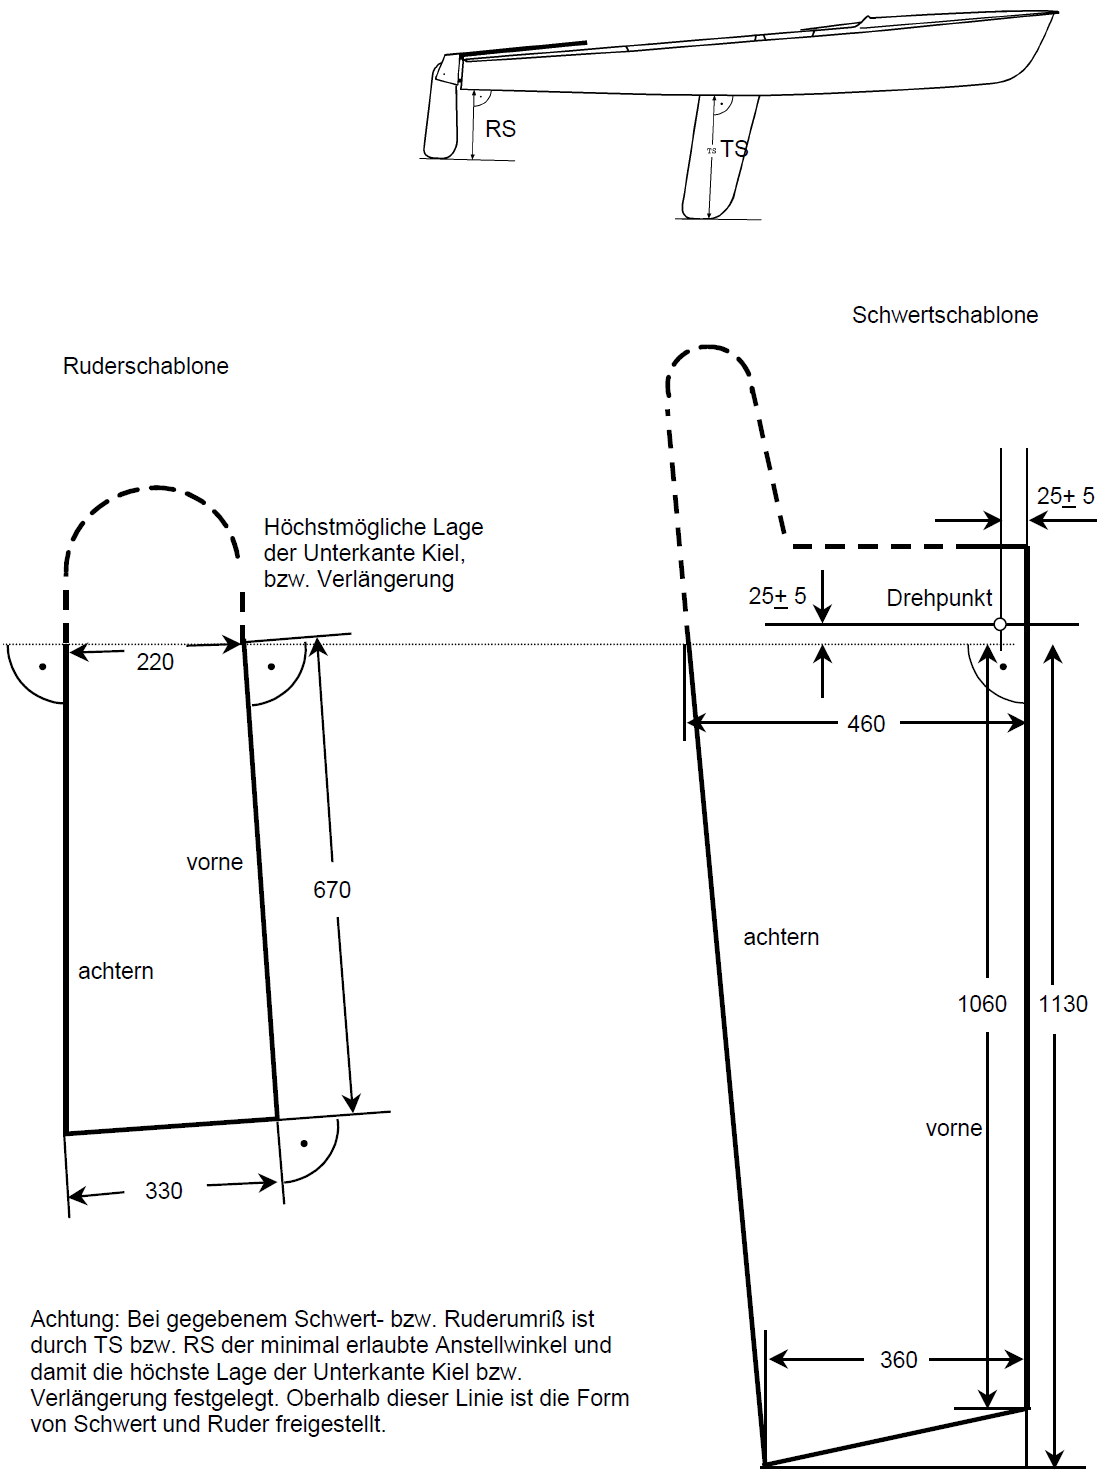
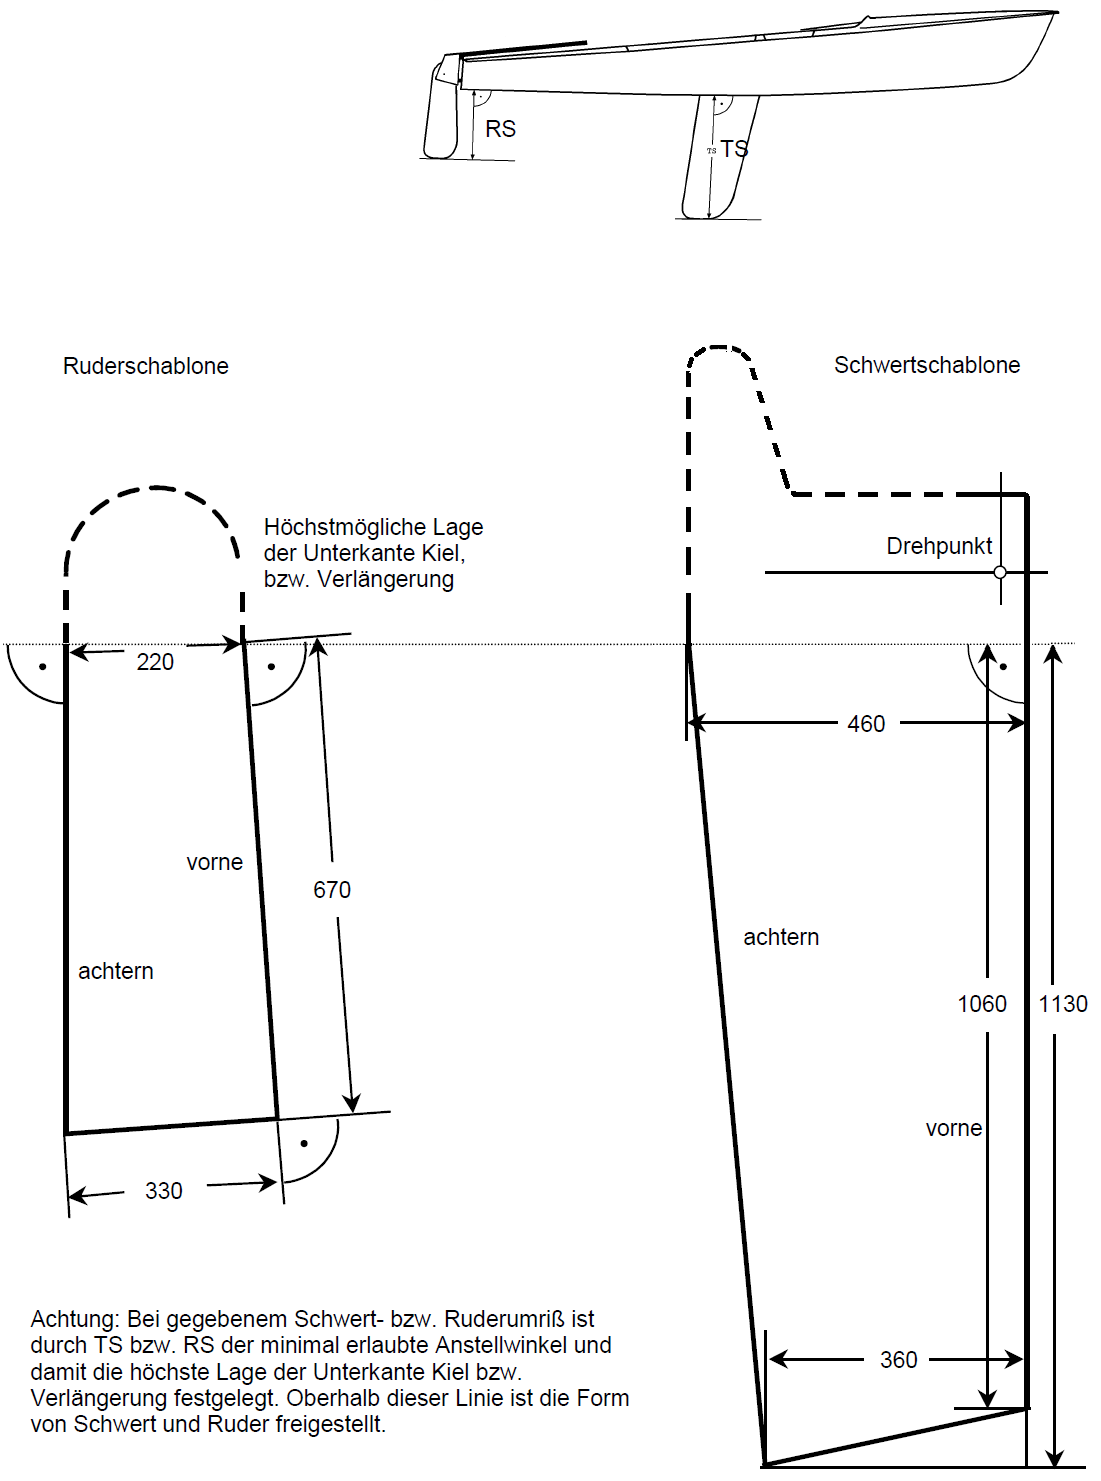
Antrag auf Änderung der Klassenvorschrift #5 (rel #2, #3, #4)

diff --git a/Jeton-Klassenvorschrift.md b/Jeton-Klassenvorschrift.md
@@ -69,7 +69,7 @@ In den Regeln 8.2.5, 8.3.6, 8.4.1, 14.3 und 17.5.3: Genehmigung DSV vom 10.04.20
 
 - **4.5** Regel 4 kann ersetzt werden durch entsprechende Vorschriften anderer nationaler Verbände.
 
-## Vermessung
+## 5 Vermessung
 
 - **5.1** Die Typenprüfung und/oder Vermessung darf nur durch einen anerkannten DSV-Vermesser vorgenommen werden.
 
@@ -97,25 +97,32 @@ In den Regeln 8.2.5, 8.3.6, 8.4.1, 14.3 und 17.5.3: Genehmigung DSV vom 10.04.20
 
 - **6.1** Die im Meßbrief angegebene Nummer des Rumpfes ist am Rumpf - Innenseite Spiegel, durch den Schaudeckel sichtbar - einzulaminieren.
 
-- **6.2** Im Großsegel muß sich oberhalb der halben Höhe die Segelnummer befinden. Das Klassenzeichen ist im Großsegel über der Segelnummer anzubringen. Im Großsegel ist zusätzlich das Nationalitätszeichen vor oder über der Segelnummer zu führen. Als Nationalitätskennzeichen müssen entweder die vor dem 31. März 1999 vorgeschriebenen oder die danach in WR 77 vorgeschriebenen Nationalitätsbuchstaben gefahren werden.
+- **6.2** Im Großsegel sind das Klassenzeichen und darunter das Nationalitätskennzeichen und die Segelnummer anzubringen. Das Nationalitätskennzeichen steht vor oder über der Segelnummer. Die Segelnummer muss sich oberhalb des ersten Drittels der Höhe des Großsegels befinden. Nationalitätskennzeichen und Segelnummern sind auf beiden Seiten des Großsegels in unterschiedlicher Höhe anzubringen, an Steuerbord höher als an Backbord.
 
-- **6.3** Die Segelnummer steht unter dem Klassenzeichen und muß *300±20 mm*  
-    hoch sein, die Schriftstärke beträgt mindestens *50 mm*  
-    Klassenzeichen und Segelnummer müssen in roter Farbe ausgeführt sein und sind auf beiden Seiten des Großsegels in unterschiedlicher Höhe anzubringen, an Steuerbord höher als an Backbord. Das Segelzeichen des Jeton besteht aus einem in der Mitte zweigeteilten Kreis; die obere Hälfte ist rot, die untere Hälfte enthält ein rotes "J". 
-    Der Durchmesser des Segelzeichens beträgt *320±20 mm*  
-    (gemäß Segelblatt).
+- **6.3** Das Klassenzeichen des Jeton besteht aus einem in der Mitte zweigeteilten Kreis; die obere Hälfte ist rot, die untere Hälfte enthält ein rotes "J".  
+Der Durchmesser des Segelzeichens beträgt *320±20 mm*  
+(gemäß Messblatt 3).  
+Höhe der Buchstaben des Nationalitätskennzeichens und Zahlen der Segelnummer *300±20 mm*  
+Schriftstärke *min. 50 mm*  
+Als Nationalitätskennzeichen müssen entweder die vor dem 31. März 1999 vorgeschriebenen oder die danach in WR 77 vorgeschriebenen Nationalitätsbuchstaben gefahren werden. Das Nationalitätskennzeichen und die Segelnummer sind in kontrastierender Farbe anzubringen.
 
 - **6.4** Auf dem Spinnaker sind Nationalitätszeichen und Unterscheidungsnummer (Größe unter 6.3) in ähnlicher Weise jedoch in annähernd halber Höhe in kontrastierender Farbe anzubringen.
 
 ## 7 Bauverfahren
 
-- **7.1** Der Jeton-Rumpf darf nur im Handauflegeverfahren in GFK hergestellt werden. Das Deck darf in Holz gefertigt werden.
+- **7.1** Der Jeton-Rumpf darf nur im Handauflegeverfahren in GFK hergestellt werden.
 
-    - **7.1.1** Sandwichbauweise ist erlaubt. Sandwichbauweise darf auch zur Verstärkung von einzelnen Flächen eingesetzt werden.
+    - **7.1.1** Das Deck darf in Holz gefertigt werden.
+    
+    - **7.1.2** Ein Schwerttisch aus GFK oder Holz ist erlaubt.
 
-    - **7.1.2** Schotten, Reitbalken sowie Versteifungen jeglicher Art sind freigestellt.
+    - **7.1.3** Sandwichbauweise ist erlaubt. Sandwichbauweise darf auch zur Verstärkung von einzelnen Flächen eingesetzt werden.
 
-    - **7.1.3** Als Materialien sind ausschließlich zugelassen: Glasfaser, Polyester, Hartschaum, Holz.
+    - **7.1.4** Schotten, Reitbalken sowie Versteifungen jeglicher Art sind freigestellt.
+
+    - **7.1.5** Als Materialien sind ausschließlich zugelassen: Glasfaser, Polyester, Hartschaum, Holz.
+    
+    - **7.1.6** Holzteile dürfen mit Epoxidharz verklebt werden. Eine Beschichtung der Holzteile mit einer Schicht Glas- oder Kohlefaser-Gewebe von max. 250 g/m2 ist erlaubt.
 
 - **7.2** Das Boot darf in Doppelschalenbauweise gebaut werden. Die Bauweise der Doppelschale muß so stabil ausgeführt werden, daß sie für die Mannschaft allseitig begehbar ist. Das Deck darf aus mehreren Baugruppen bestehen.
 
@@ -175,7 +182,8 @@ In den Regeln 8.2.5, 8.3.6, 8.4.1, 14.3 und 17.5.3: Genehmigung DSV vom 10.04.20
         Tiefe in der Oberfläche des Kieles oder des Bootskörpers sind verboten. Die Überprüfung dieser Vorschrift ist mit einer mind. *1000 mm*  
         langen Straklatte durchzuführen.
 
-    - **8.2.8** Lage des Schwertdrehpunktes: waagerechter Abstand von Spant 2 *LSB 190±10 mm*
+    - **8.2.8** Lage des Schwertdrehpunktes: waagerechter Abstand von Spant 2 *LSB 190±10 mm*  
+        Abstand des Schwerdrehpunktes von der Kiellinie in vertikaler Richtung *max. 100 mm*
 
     - **8.2.9** Schwertkasten
         - **(i)** Lichte Weite des Schwertkastens am Kiel, ausgenommen Führungshilfen *BSK 30±5 mm* 
